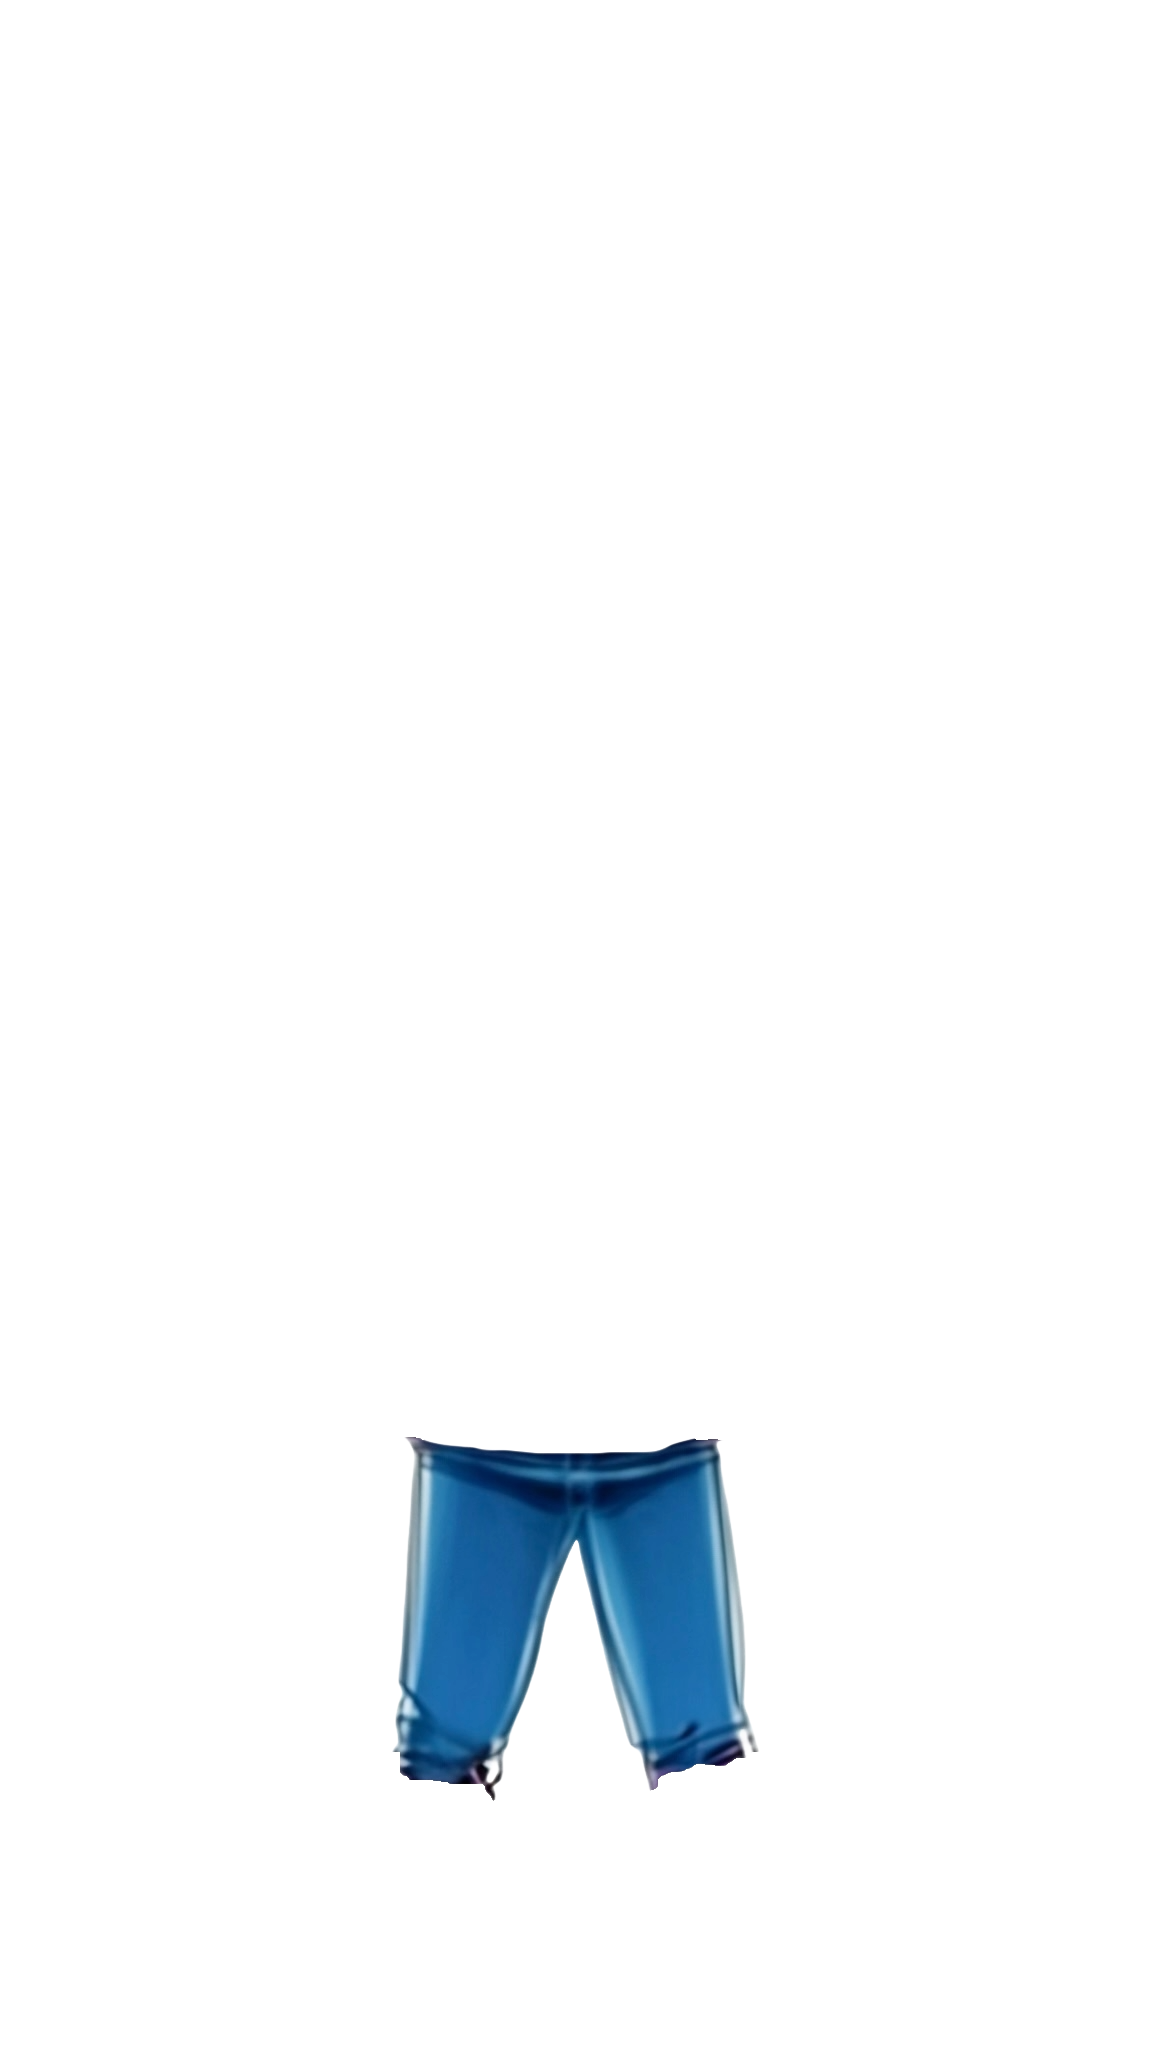
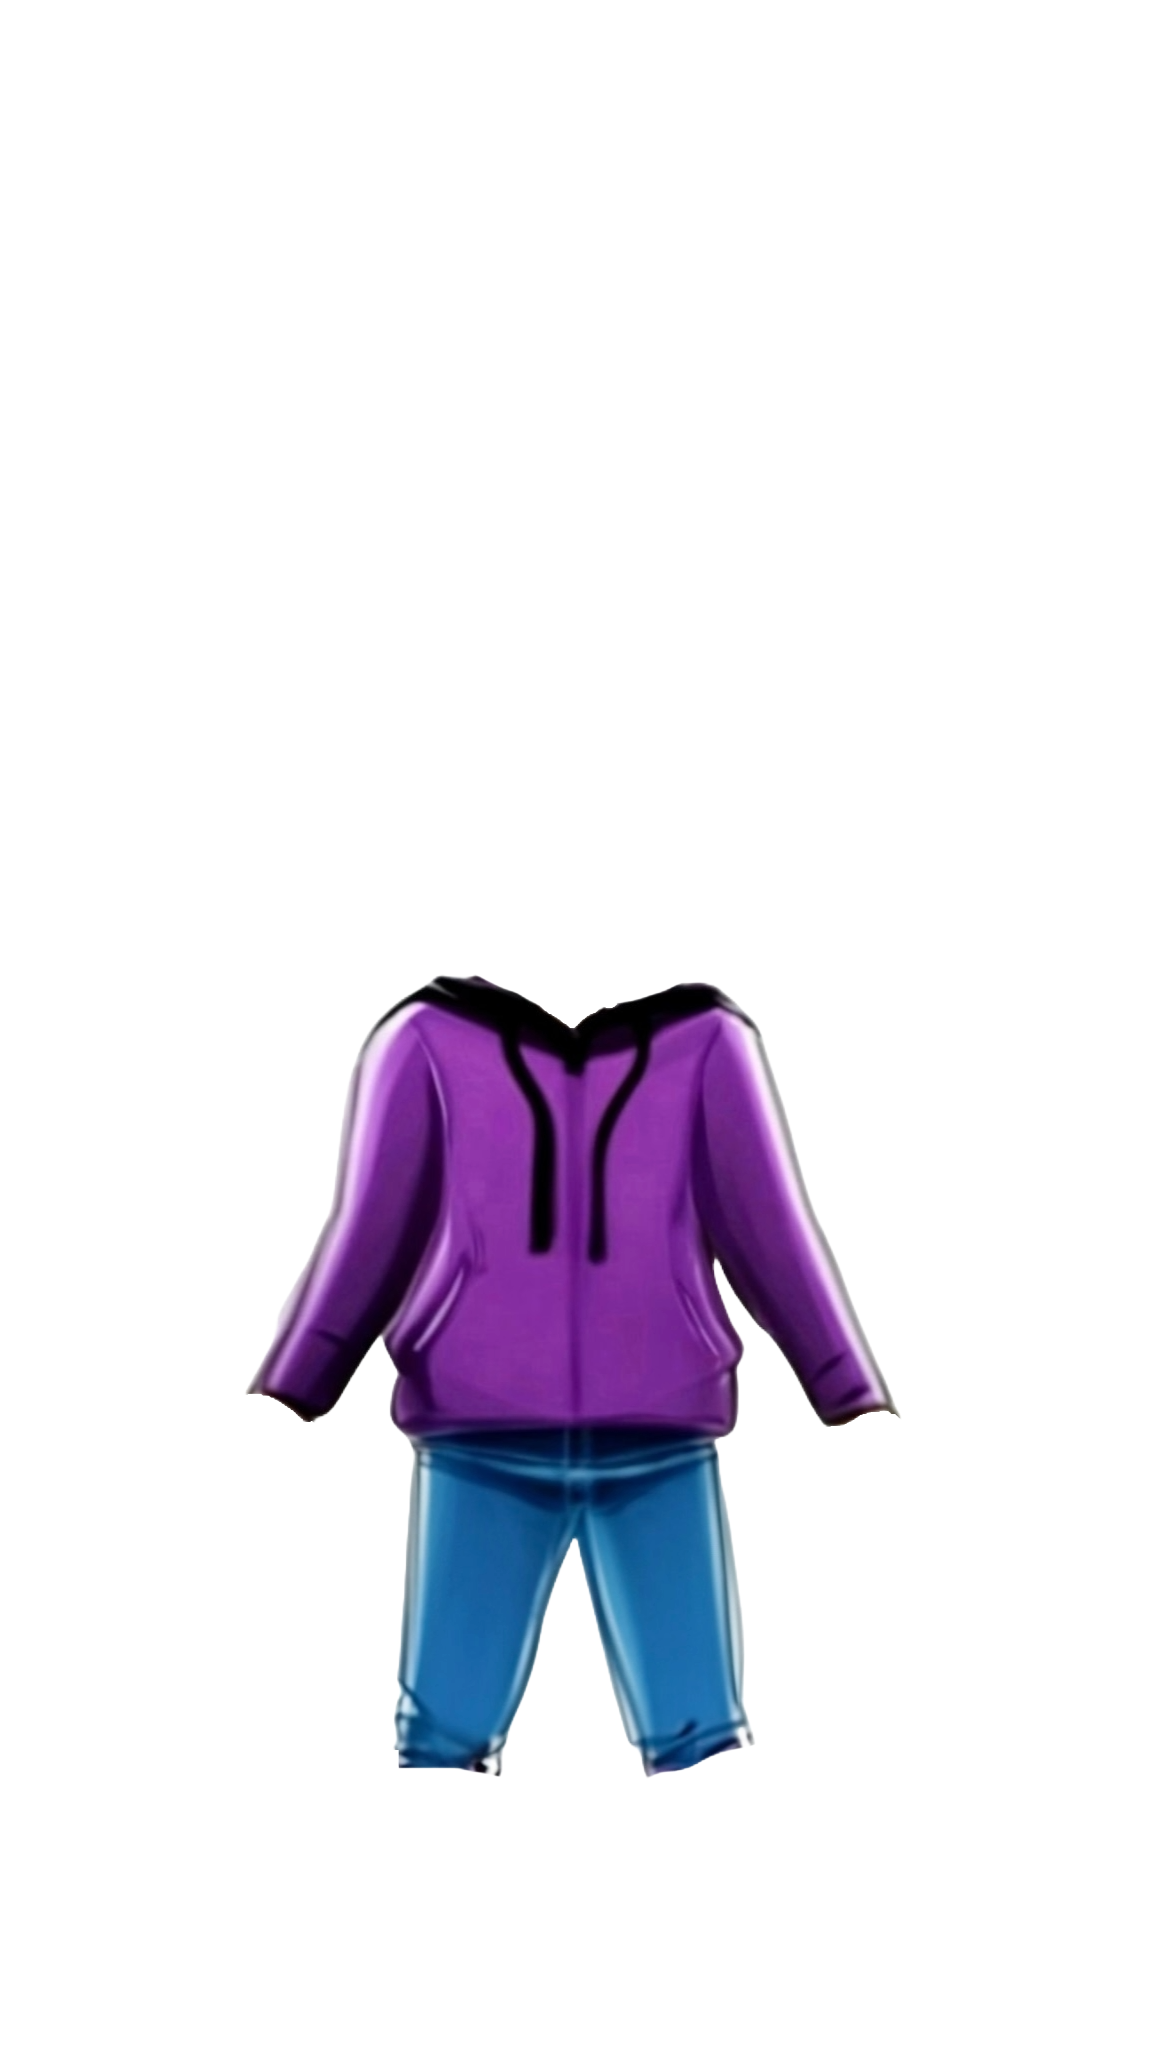
Upload assets for GetDressed

Changed region(s): [[0.2188, 0.4688, 0.7812, 0.875], [0.4375, 0.7812, 0.4688, 0.8438], [0.4688, 0.75, 0.5, 0.7812]]

diff --git a/src/data.js b/src/data.js
@@ -21,6 +21,21 @@ import icon16 from "./assets/icons/storm2.png";
 import icon17 from "./assets/icons/storm3.png";
 import icon18 from "./assets/icons/sun.png";
 import icon19 from "./assets/icons/windy.png";
+import head1 from "./assets/clothing/Chilly/Chilly1.png";
+import head2 from "./assets/clothing/Raingear/Raingear1.png";
+import head3 from "./assets/clothing/Snowgear/Snowgear1.png";
+import head4 from "./assets/clothing/Summer/Summer1.png";
+import head5 from "./assets/clothing/Windy/Windy1.png";
+import clothing1 from "./assets/clothing/Chilly/Chilly2.png";
+import clothing2 from "./assets/clothing/Raingear/Raingear2.png";
+import clothing3 from "./assets/clothing/Snowgear/Snowgear2.png";
+import clothing4 from "./assets/clothing/Summer/Summer2.png";
+import clothing5 from "./assets/clothing/Windy/Windy2.png";
+import acc1 from "./assets/clothing/Chilly/Chilly3.png";
+import acc2 from "./assets/clothing/Raingear/Raingear3.png";
+import acc3 from "./assets/clothing/Snowgear/Snowgear3.png";
+import acc4 from "./assets/clothing/Summer/Summer3.png";
+import acc5 from "./assets/clothing/Windy/Windy3.png";
 
 export const outfits = {
   default: { image: img1, alt: "child dressed in pajamas" },
@@ -29,6 +44,13 @@ export const outfits = {
   warm: { image: img2, alt: "child dressed for heat" },
   chilly: { image: img3, alt: "child dressed for chill" },
   snowy: { image: img5, alt: "child dressed for cold" },
+};
+
+export const buildableOutfits = {
+  head: [head1, head2, head3, head4, head5],
+  clothing: [clothing1, clothing2, clothing3, clothing4, clothing5],
+  accessories: [acc1, acc2, acc3, acc4, acc5],
+  outfits: [img1, img2, img3, img4, img5, img6],
 };
 
 export const weatherConditions = {
